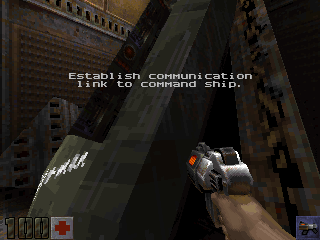
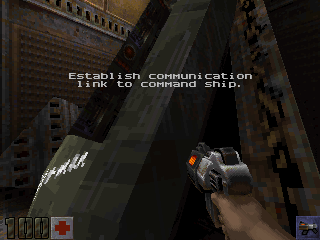
Models lit as R_AliasSetupLighting lit them: ambient and shade clamped, a fixed light direction, items pulse
The painter lit models with the full light as both ambient and shade, from a diagonal it chose, with
a fullbright rule for projectiles and a floor of 32 for the gun. Now it is ref_soft's: the light under
the model's origin (R_LightPoint, scaled by the brightness like r_modulate, plus the dynamic lights
near it unscaled) goes to ambient at most 128 and shade at most 192 together, ambient at least
LIGHT_MIN 5, and each vertex gains the shade by how far its normal faces +x, as from lightvec
(-1, 0, 0) in the world. Projectiles are bright by their own dynamic light, as in Quake 2. The view
weapon has RF_MINLIGHT (at least 0.1) and is lit from the eye; items carry RF_GLOW from their spawn, as
SpawnItem gave it (not for items that cannot be touched), and pulse by 0.1 sin 7t, never below 0.8 of
their light. Bolts lose a glow bit Quake 2 never gave them.

The painter test checks the clamps (128..192 under a bright light, 5 in the dark), RF_MINLIGHT (25),
RF_GLOW's pulse and the shade's side. The docs screenshots are regenerated (the gun is a little darker
and flatter, as in the software renderer). All tests good; both renderers paint the same pixels; in
Chrome every item carries the glow and the gun its minimum light.

Changed region(s): [[0.7188, 0.7875, 0.9375, 1.0], [0.5938, 0.5833, 0.8125, 0.7875], [0.6875, 0.9625, 0.7188, 1.0]]

diff --git a/src/main.js b/src/main.js
@@ -552,10 +552,11 @@ function drawFrame(faces, ents, styles, time, dt = 0.05) {
     const m = res.models.get(mid);
     if (!m) continue;
     if (kind === 'M') {
-      const glow = effects & (8 | 16 | 64 | 128) ? 255 : 0;
-      const light = glow || lightPoint(bsp, x, y, z + 8) + dlightAt(r.dlights, x, y, z) / r.lightScale;
+      // R_LightPoint at the origin, with the dynamic lights (a projectile's own light makes it bright); items glow
+      const light = lightPoint(bsp, x, y, z);
       const spin = effects & 1 ? (time * 100) % 360 : 0;   // EF_ROTATE items spin
-      r.drawAlias(m.mdl, frame, skin, [x, y, z], [pitch, yaw + spin, roll], light, { time, alpha: alpha === 1 });
+      r.drawAlias(m.mdl, frame, skin, [x, y, z], [pitch, yaw + spin, roll], light,
+        { time, alpha: alpha === 1, dlight: dlightAt(r.dlights, x, y, z), glow: (e[13] & 4) !== 0 });
       if (effects & 8) r.particles.push({ x, y, z, vx: 0, vy: 0, vz: 0, color: 0xe0 + (Math.random() * 4 | 0), die: time + 0.05, type: 'still' });   // the blaster bolt's glow
       if (effects & 16) r.spawnParticles('gunshot', x, y, z, 2, [0, 0, 0], 0xe0 + 8);   // rocket smoke
     } else if (kind === 'S') {
@@ -585,9 +586,11 @@ function drawFrame(faces, ents, styles, time, dt = 0.05) {
         gr += 0.1 * dy; gy += 0.2 * dy; gp += 0.2 * lag(gunPrev.pitch, last.PITCH);
       }
       gunPrev = { yaw: last.YAW, pitch: last.PITCH };
-      const light = Math.max(lightPoint(bsp, last.PX, last.PY, last.PZ), 32) + dlightAt(r.dlights, last.PX, last.PY, last.VIEW_Z) / r.lightScale;
+      // the gun: RF_MINLIGHT, lit from the eye (CL_AddViewWeapon)
+      const light = lightPoint(bsp, last.PX, last.PY, last.VIEW_Z);
       r.zb.fill(0, 0, r.w * r.h);
-      r.drawAlias(vm.mdl, viewFrame(vm.mdl, last, time), 0, [last.PX, last.PY, last.VIEW_Z], [-(last.PITCH + gp), last.YAW + gy, (last.ROLL ?? 0) + gr], light, { near: 1, time });
+      r.drawAlias(vm.mdl, viewFrame(vm.mdl, last, time), 0, [last.PX, last.PY, last.VIEW_Z], [-(last.PITCH + gp), last.YAW + gy, (last.ROLL ?? 0) + gr], light,
+        { near: 1, time, minlight: true, dlight: dlightAt(r.dlights, last.PX, last.PY, last.VIEW_Z) });
     }
   }
   prevPos = { x: last.PX, y: last.PY };

diff --git a/src/renderer.js b/src/renderer.js
@@ -577,9 +577,19 @@ export class Renderer {
     const ox = origin[0] - view.x, oy = origin[1] - view.y, oz = origin[2] - view.z;
     const fwd = view.fwd, right = view.right, up = view.up;
     const fx = fwd[0], fy = fwd[1], fz = fwd[2], rx = right[0], ry = right[1], rz = right[2], ux = up[0], uy = up[1], uz = up[2];
-    const ldx = -1, ldz = 1;
-    light = Math.min(255, light * this.lightScale);
-    const ambient = Math.max(light, 8), shade = Math.max(light, 8);
+    // R_AliasSetupLighting: the light under the model (scaled by the brightness, as r_modulate scaled
+    // R_LightPoint's lightmap part; opts.dlight is the dynamic lights' part, not scaled), at least 0.1 for
+    // RF_MINLIGHT (the view weapon), pulsing by 0.1 sin(7t) for RF_GLOW (items) but not below 0.8 of itself;
+    // then ambient at most 128, ambient and shade at most 192 together, ambient at least LIGHT_MIN 5, and the
+    // light from (-1, 0, 0) in the world: a vertex gains shade by how far its normal faces +x
+    let l = light * this.lightScale + (opts.dlight ?? 0);
+    if (opts.minlight && l < 25.5) l = 25.5;
+    if (opts.glow) l = Math.max(l * 0.8, l + 25.5 * Math.sin((opts.time ?? 0) * 7));
+    const j = Math.trunc(l * 0.9999);
+    let ambient = Math.min(j, 128), shade = j;
+    if (ambient + shade > 192) shade = 192 - ambient;
+    if (ambient < 5) ambient = 5;
+    if (shade < 0) shade = 0;
     const depthHack = opts.depthHack ? 3 : 1;
     const vcx = view.cx, vcy = view.cy, sc = view.scale;
     let anyNear = false;
@@ -599,9 +609,7 @@ export class Renderer {
       const ni = Math.min(verts[i * 4 + 3], 161) * 3;
       const a0 = ANORMS[ni], a1 = ANORMS[ni + 1], a2 = ANORMS[ni + 2];
       const nx = F0 * a0 - R0 * a1 + U0 * a2;
-      const nz = F2 * a0 - R2 * a1 + U2 * a2;
-      const d = (nx * ldx + nz * ldz) * 0.7071;
-      av[o + 6] = Math.min(255, ambient + shade * Math.max(0, d));
+      av[o + 6] = Math.min(255, ambient + (nx > 0 ? shade * nx : 0));
     }
     const sk = mdl.skins[Math.min(skin, mdl.skins.length - 1)] ?? mdl.skins[0];
     const skinData = sk.data, skinW = sk.w, skinH = sk.h;

diff --git a/docs/ROADMAP.md b/docs/ROADMAP.md
@@ -160,8 +160,12 @@ them.
   stopped working. `player_think` now remembers where it last worked the level out (`player.water_x/y/z`)
   and works it out again wherever the player is, as `PM_CatagorizePosition` did every frame; the smoke
   test puts the player under water and back.
-- **Entity lighting**: alias models take the lightmap value under them, the dynamic lights near them and
-  Gouraud; there is no shadow (ref_soft had none either).
+- **Entity lighting**: done, as `R_AliasSetupLighting` had it. The light under the model's origin
+  (`R_LightPoint`, with the dynamic lights near it: a rocket or a bolt is bright by its own light, not by a
+  fullbright rule) splits into ambient (at most 128) and shade (at most 192 together, ambient at least 5);
+  the shade falls by how far each vertex's normal faces +x, as from `lightvec` (-1, 0, 0) in the world. The
+  view weapon has `RF_MINLIGHT` (at least 0.1) and is lit from the eye; items have `RF_GLOW` (`SpawnItem`:
+  the light pulses by 0.1 sin 7t, never below 0.8 of itself). No shadows: ref_soft had none.
 - **Sprites**: oriented sprites (`SPR_ORIENTED`) are drawn as billboards.
 - **Sky**: the cube map is sampled per pixel; the sky's rotation (`sky_rotate`, `sky_axis`) is
   stored by the loader but the painter does not turn it.

diff --git a/README.md b/README.md
@@ -143,7 +143,8 @@ in view has to be rebuilt (a light style changed, a new area opened), down from 
 Translucent surfaces (`SURF_TRANS33/66`) are blended through the alpha map in the same picture; warping
 surfaces ripple and flow, and with the eye under water the whole view wobbles as `D_WarpScreen` made it;
 the sky is the `env/` cube map sampled by each pixel's direction. MD2 models
-are drawn with the lightmap value under the entity and Gouraud light from the vertex normals, clipped
+are lit as ref_soft lit them (the light under the model split into ambient and shade, the shade from a fixed
+world direction by the vertex normals; items pulse, the gun never goes below a minimum), clipped
 against the near plane triangle by triangle; sprites are billboards; explosions, blood, blaster sparks
 and the rail trail are particles. Muzzle flashes, rockets, blaster bolts, the BFG ball and explosions are
 dynamic lights, added to the lightmaps of the faces they reach as ref_soft's `R_AddDynamicLights` did

diff --git a/docs/ARCHITECTURE.md b/docs/ARCHITECTURE.md
@@ -255,6 +255,9 @@ RGBA through the palette on `present` (with the damage/powerup/water tint as a p
 - **The underwater view.** `warpScreen(time)` is `D_WarpScreen`: the frame copied aside and read back
   through the turbulence table (row offsets by column, column offsets by row); `drawFrame` calls it
   after the view weapon when `WATERLEVEL` is 3, before the status bar.
+- **Model lighting.** `drawAlias(…, light, { dlight, minlight, glow })` is `R_AliasSetupLighting`: the
+  lightmap light (scaled by the brightness) plus the dynamic part, `RF_MINLIGHT` and `RF_GLOW` applied,
+  ambient and shade clamped as ref_soft clamped them, the shade by the normal's x.
 - **Dynamic lights.** `renderer.dlights` is the frame's lights (`frameDlights` in `src/main.js`: muzzle
   flashes from fx 15, projectiles by their effects bits, explosions fading). `faceDlights` is
   `R_MarkLights` face by face (the plane distance, the reach across the face); a face it returns lights
